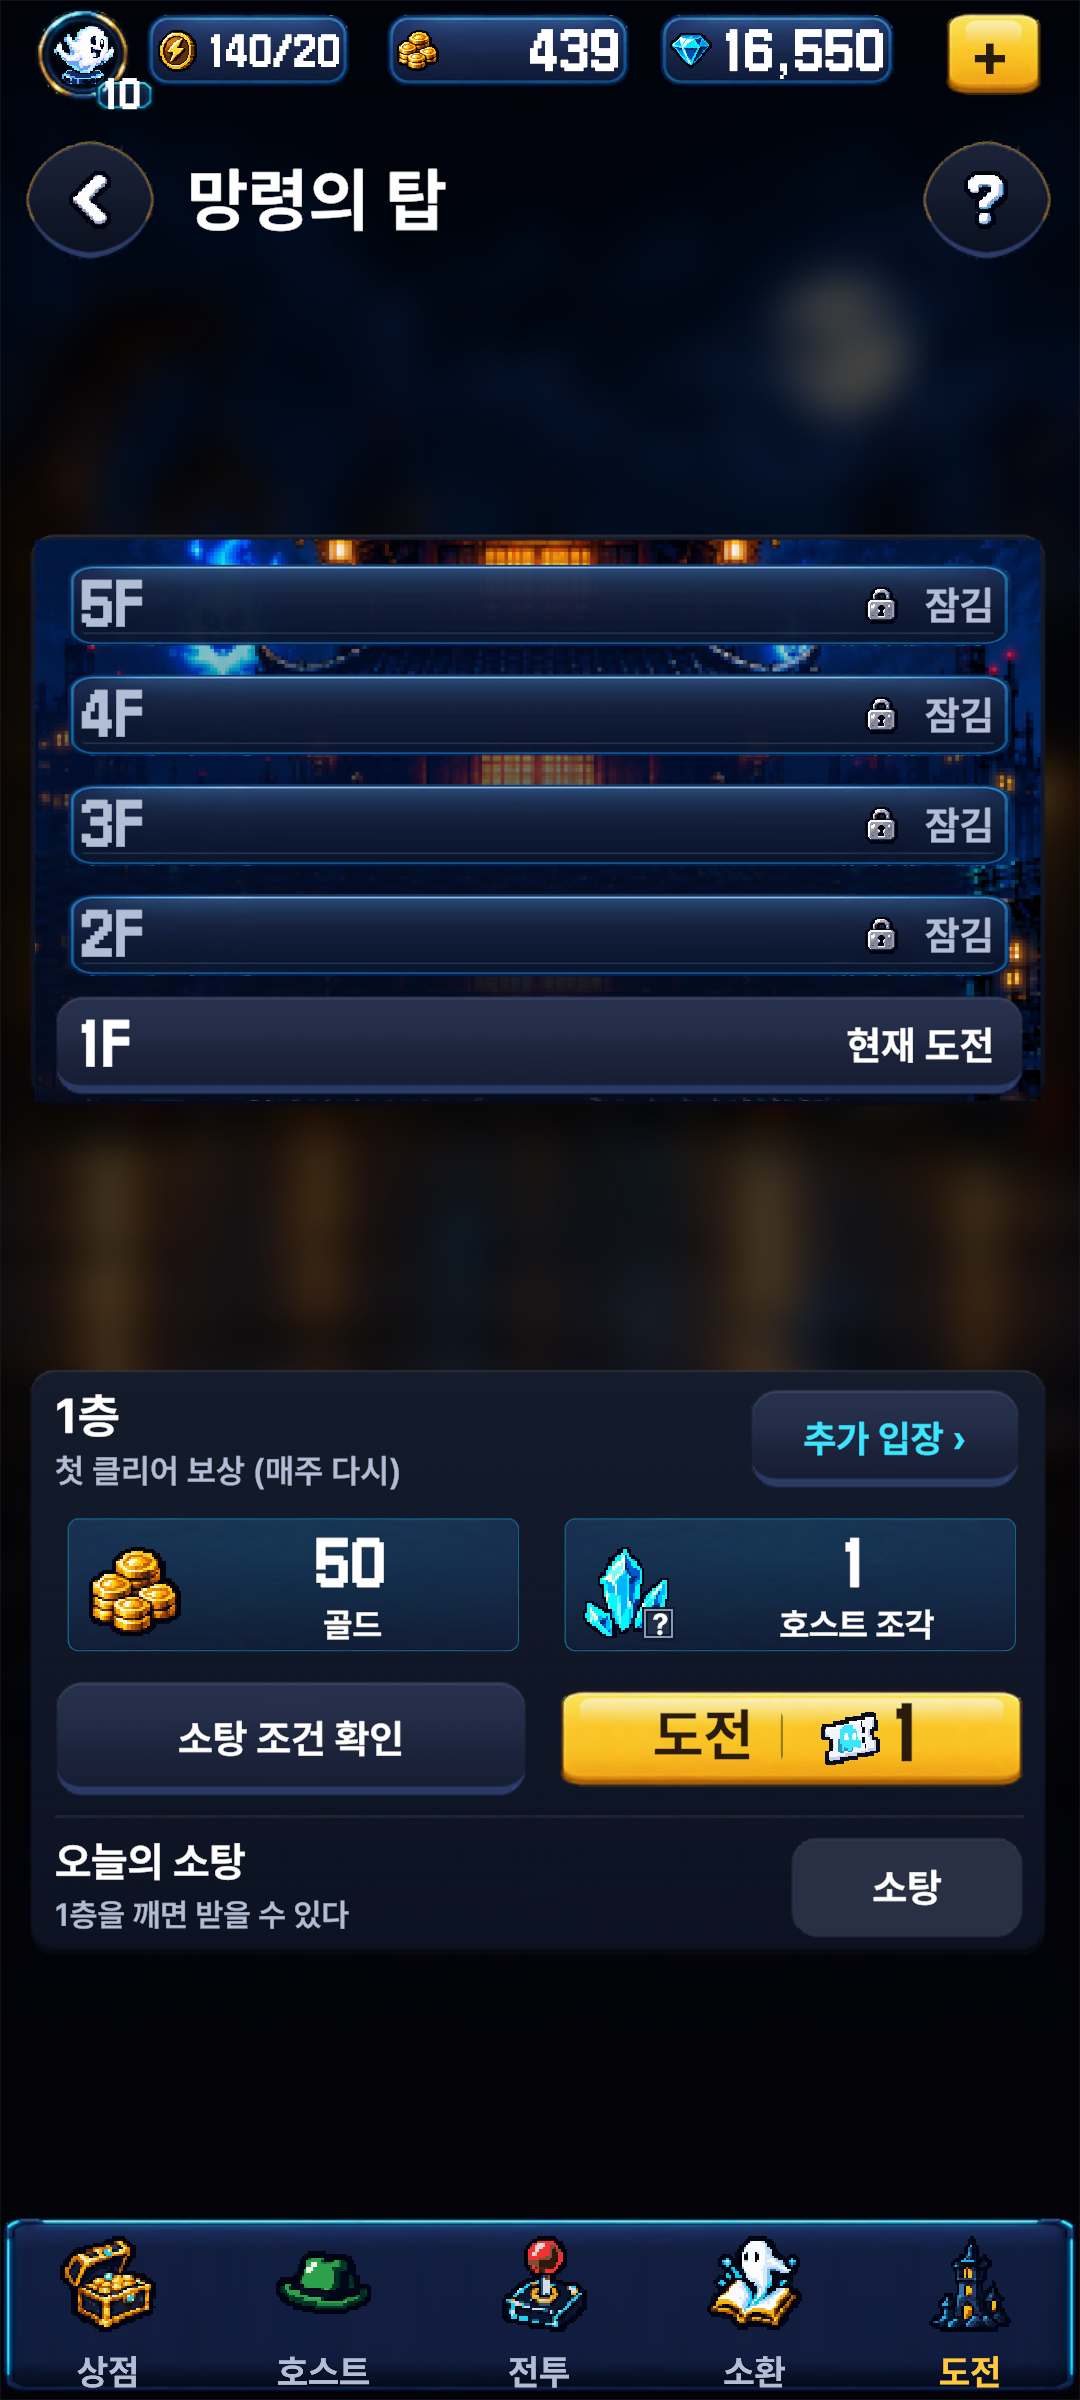
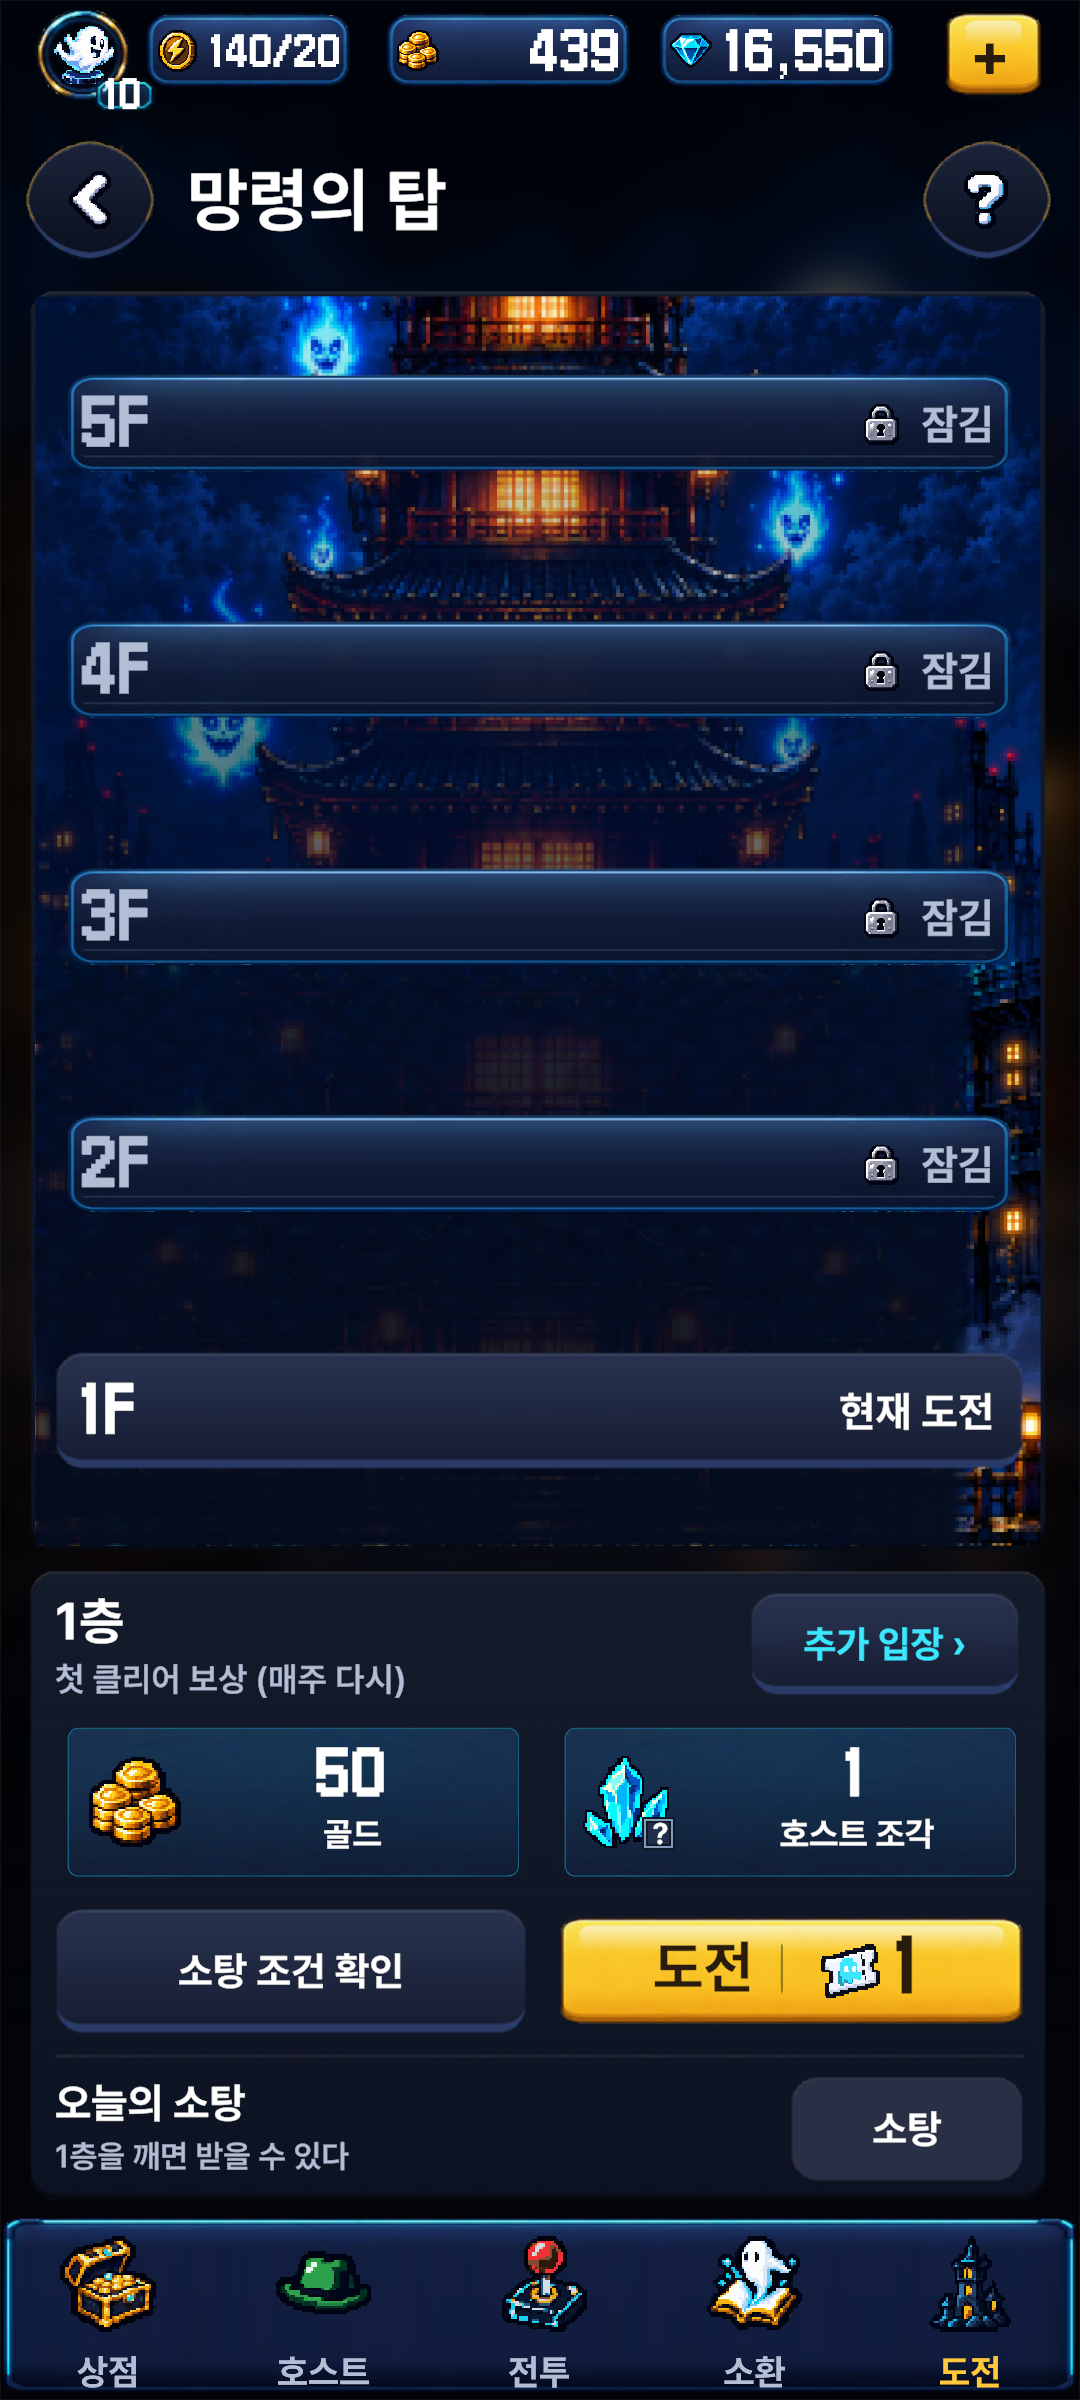
RE:BORN 망령의 탑 — 층 간격 넓혀 빈 공간 채움 · 긴 화면은 남는 세로를 층 간격에
- 탑 판을 16:9 보기 칸 거의 끝까지 늘리고 층 줄 간격 146 · 높이 118 로 키움
- RbFitBands 층 줄 모드(GrowRows): 20:9 처럼 세로가 남으면 탑 판이 길어지고 다섯 층이 고르게 벌어짐
- 층 줄은 앞머리 뒤가 숫자인 것만(ChlFloorTitle · ChlFloorDesc 가 층 줄로 잘못 잡혀 「1층」 제목이 판 밖에 남던 것)

diff --git a/Assets/Scripts/Editor/ReBorn/RbChallengeBuilder.cs b/Assets/Scripts/Editor/ReBorn/RbChallengeBuilder.cs
@@ -100,36 +100,37 @@ namespace Game.Editor.ReBorn
         private static void BuildTower(RectTransform page)
         {
             // 시안 tower(1080 기준) — 탑 그림 판 위에 다섯 층(이번 5층 묶음) · 아래 판에 보상 · 버튼 · 오늘의 소탕.
-            // 16:9 한 화면(아래 탭 위 ≈ 1880)에 다 들게 — PD 2026-10-26 「층마다 벌려 놓지 말고 · 스크롤 될 필요 없다」.
-            // 층 줄은 시안처럼 거의 붙여(높이 100 · 사이 10)
-            var body = Group(page, "ChlTower", "ui.tower.title", "망령의 탑", 1620 - Top, true);
-            // 해상도 맞춤 — 4:3 은 통째로 키우고, 20:9 는 남는 세로를 탑 판 | 아래 판 사이에 나눈다(경계 = 두 판 사이)
-            body.gameObject.AddComponent<Game.Module.Common.UI.RbFitBands>().Setup((1620 - Top) * S, new[] { (1013 - Top) * S });
-            var ladder = PlaceIn(Node(body, "ChlLadder"), Top, 29, 430, 1047, 1004);
+            // 16:9 보기 칸(머리 줄 밑 ~ 아래 탭 위)을 거의 다 채운다 — PD 2026-10-26 「층 표기 간격을 넓혀서라도 채워 보자 · 빈 공간이 너무 많다」.
+            // 더 긴 화면(20:9)은 RbFitBands 가 남는 세로를 탑 판 안 층 간격에 더 준다
+            var body = Group(page, "ChlTower", "ui.tower.title", "망령의 탑", 1846 - Top, true);
+            var fit = body.gameObject.AddComponent<Game.Module.Common.UI.RbFitBands>();
+            fit.Setup((1846 - Top) * S, new[] { (1197 - Top) * S });
+            fit.GrowRows("ChlLadder", "ChlFloor");
+            var ladder = PlaceIn(Node(body, "ChlLadder"), Top, 29, 430, 1047, 1188);
             Img(ladder, "Components/rb_panel_base");
             ArtCard(ladder, "ChlLadder", "Art/rb_art_bg_tower_column", AspectOf("Art/rb_art_bg_tower_column"));
             for (int i = 0; i < 5; i++)
             {
-                float y0 = 452 + i * 110f, y1 = y0 + 100;
+                float y0 = 454 + i * 146f, y1 = y0 + 118;
                 var row = PlaceIn(Node(body, $"ChlFloor{i}"), Top, 55, y0, 1024, y1);
                 Img(row, "Components/rb_list_row");
-                Text(Local(Node(row, $"ChlFloor{i}No"), 55, y0, 1024, y1, 82, y0 + 20, 300, y0 + 80), null, "5F", 52, White, TA.Left, number: true);
-                Img(Local(Node(row, $"ChlFloor{i}Lock"), 55, y0, 1024, y1, 862, y0 + 30, 902, y0 + 70), "Icons/rb_icon_sys_lock_48");
-                Text(Local(Node(row, $"ChlFloor{i}State"), 55, y0, 1024, y1, 600, y0 + 24, 994, y0 + 76), null, "잠김", 40, Dim, TA.Right, heavy: true);
+                Text(Local(Node(row, $"ChlFloor{i}No"), 55, y0, 1024, y1, 82, y0 + 26, 300, y0 + 92), null, "5F", 56, White, TA.Left, number: true);
+                Img(Local(Node(row, $"ChlFloor{i}Lock"), 55, y0, 1024, y1, 860, y0 + 38, 904, y0 + 82), "Icons/rb_icon_sys_lock_48");
+                Text(Local(Node(row, $"ChlFloor{i}State"), 55, y0, 1024, y1, 600, y0 + 32, 994, y0 + 88), null, "잠김", 42, Dim, TA.Right, heavy: true);
             }
-            Img(PlaceIn(Node(body, "ChlTowerPanel"), Top, 29, 1022, 1047, 1610), "Components/rb_panel_base");
-            Text(PlaceIn(Node(body, "ChlFloorTitle"), Top, 55, 1040, 730, 1098), null, "2층", 54, White, TA.Left, heavy: true);
-            Text(PlaceIn(Node(body, "ChlFloorDesc"), Top, 55, 1104, 740, 1144), "ui.tower.first_clear", "첫 클리어 보상 (매주 다시)", 34, Dim, TA.Left);
-            var buy = Button2(body, "ChlTowerBuy", "ui.rb.chl.buy", "추가 입장 ›", 750, 1042, 1020, 1142, false, 38);
+            Img(PlaceIn(Node(body, "ChlTowerPanel"), Top, 29, 1206, 1047, 1838), "Components/rb_panel_base");
+            Text(PlaceIn(Node(body, "ChlFloorTitle"), Top, 55, 1226, 730, 1288), null, "2층", 56, White, TA.Left, heavy: true);
+            Text(PlaceIn(Node(body, "ChlFloorDesc"), Top, 55, 1294, 740, 1336), "ui.tower.first_clear", "첫 클리어 보상 (매주 다시)", 34, Dim, TA.Left);
+            var buy = Button2(body, "ChlTowerBuy", "ui.rb.chl.buy", "추가 입장 ›", 750, 1228, 1020, 1332, false, 38);
             buy.GetComponentInChildren<TMPro.TextMeshProUGUI>().color = Cyan;   // 시안: 청록 글자
-            Reward(body, "ChlReward", 1164, 1314);
-            Button2(body, "ChlTowerFit", "ui.rb.chl.sweep_rule", "소탕 조건 확인", 55, 1334, 527, 1450, false, 40);
-            StartButton(body, "ChlTowerStart", "도전", 552, 1334, 1024, 1450);
+            Reward(body, "ChlReward", 1356, 1522);
+            Button2(body, "ChlTowerFit", "ui.rb.chl.sweep_rule", "소탕 조건 확인", 55, 1544, 527, 1670, false, 40);
+            StartButton(body, "ChlTowerStart", "도전", 552, 1544, 1024, 1670);
             // 버튼 줄과 오늘의 소탕 사이 가는 줄(시안 #1D2331 · 두께 2 — 코덱스 납품 rb_divider_line)
-            if (KitSprite("Components/rb_divider_line") != null) Img(PlaceIn(Node(body, "ChlSweepLine"), Top, 55, 1466, 1024, 1474), "Components/rb_divider_line").preserveAspect = false;
-            Text(PlaceIn(Node(body, "ChlSweepTitle"), Top, 55, 1490, 760, 1540), "ui.tower.sweep", "오늘의 소탕", 44, White, TA.Left, heavy: true);
-            Text(PlaceIn(Node(body, "ChlSweepInfo"), Top, 55, 1546, 770, 1590), null, "하루 1번 · 입장 횟수를 쓰지 않는다", 32, Dim, TA.Left);
-            Button2(body, "ChlTowerSweep", null, "소탕", 790, 1490, 1024, 1592, false, 40);
+            if (KitSprite("Components/rb_divider_line") != null) Img(PlaceIn(Node(body, "ChlSweepLine"), Top, 55, 1688, 1024, 1696), "Components/rb_divider_line").preserveAspect = false;
+            Text(PlaceIn(Node(body, "ChlSweepTitle"), Top, 55, 1714, 760, 1764), "ui.tower.sweep", "오늘의 소탕", 44, White, TA.Left, heavy: true);
+            Text(PlaceIn(Node(body, "ChlSweepInfo"), Top, 55, 1770, 770, 1814), null, "하루 1번 · 입장 횟수를 쓰지 않는다", 32, Dim, TA.Left);
+            Button2(body, "ChlTowerSweep", null, "소탕", 790, 1712, 1024, 1818, false, 40);
             buy.transform.SetAsLastSibling();
         }
 
@@ -139,7 +140,7 @@ namespace Game.Editor.ReBorn
             // 시안 tower: 얇은 청록 테 칸 둘 — 아이콘 왼쪽 · 숫자와 이름 가운데 · 조각은 「?」
             var g = PlaceIn(Node(body, p + "GoldTile"), Top, 55, y0, 527, y1);
             Img(g, CellTeal).pixelsPerUnitMultiplier = CellPpu;
-            Img(Local(Node(g, p + "GoldIcon"), 55, y0, 527, y1, 85, y0 + 32, 185, y0 + 132), "Icons/rb_icon_currency_gold_96");
+            Img(Local(Node(g, p + "GoldIcon"), 55, y0, 527, y1, 85, y0 + 33, 185, y0 + 133), "Icons/rb_icon_currency_gold_96");
             Text(Local(Node(g, p + "Gold"), 55, y0, 527, y1, 200, y0 + 22, 505, y0 + 86), null, "500", 54, White, TA.Center, number: true);
             Text(Local(Node(g, p + "GoldLabel"), 55, y0, 527, y1, 200, y0 + 92, 505, y0 + 136), "ui.rb.result.gold", "골드", 34, White, TA.Center, heavy: true);
             var s = PlaceIn(Node(body, p + "ShardTile"), Top, 552, y0, 1024, y1);

diff --git a/Assets/Scripts/Module/Common/UI/RbFitBands.cs b/Assets/Scripts/Module/Common/UI/RbFitBands.cs
@@ -22,6 +22,9 @@ namespace Game.Module.Common.UI
         [SerializeField] private float _designWidth = 720f;
         [SerializeField] private float _designHeight;
         [SerializeField] private float[] _breaks = System.Array.Empty<float>();
+        // 층 줄 모드 — 남는 세로를 띠 사이가 아니라 한 판(_growNode) 안 줄(_rowPrefix…) 간격에 준다(탑 층 사다리)
+        [SerializeField] private string _growNode, _rowPrefix;
+        private Vector2 _growHomeSize;
 
         private RectTransform _rt;
         private Vector2[] _home;
@@ -32,6 +35,13 @@ namespace Game.Module.Common.UI
         {
             _designHeight = designHeight;
             _breaks = breaks ?? System.Array.Empty<float>();
+        }
+
+        /// <summary>남는 세로를 판 하나(bg) 안 줄들(이름 앞머리 rowPrefix) 간격에 준다 — 판은 그만큼 길어지고, 그 아래는 통째로 내려간다.</summary>
+        public void GrowRows(string bg, string rowPrefix)
+        {
+            _growNode = bg;
+            _rowPrefix = rowPrefix;
         }
 
         private void Awake() => _rt = (RectTransform)transform;
@@ -73,6 +83,7 @@ namespace Game.Module.Common.UI
             // 다 들어가면 스크롤을 끈다(PD 「스크롤 될 필요 없다」) — 켜 두면 스크롤이 내용 자리를 위로 되돌린다
             if (scroll != null) scroll.enabled = _designHeight * k > view.y + 1f;
             _rt.anchoredPosition = new Vector2(0f, -gap * k);
+            if (!string.IsNullOrEmpty(_growNode)) { GrowRowsApply(spare / k); return; }
             for (int i = 0; i < _kids.Length; i++)
             {
                 if (_kids[i] == null) continue;
@@ -83,5 +94,41 @@ namespace Game.Module.Common.UI
                 _kids[i].anchoredPosition = _home[i] + new Vector2(0f, -gap * band);
             }
         }
+
+        // 남는 세로(내용 단위) 전부를 판 안 줄 간격에 — 줄 n 개는 길어진 판 안에 고르게, 판 아래 묶음은 통째로 아래로
+        private void GrowRowsApply(float extra)
+        {
+            _rt.anchoredPosition = Vector2.zero;
+            RectTransform bg = null;
+            int bgIndex = -1;
+            var rows = new System.Collections.Generic.List<int>();
+            for (int i = 0; i < _kids.Length; i++)
+            {
+                if (_kids[i] == null) continue;
+                if (_kids[i].name == _growNode) { bg = _kids[i]; bgIndex = i; }
+                else if (IsRow(_kids[i].name)) rows.Add(i);
+            }
+            if (bg == null) return;
+            if (_growHomeSize == Vector2.zero) _growHomeSize = bg.sizeDelta;
+            float bgBottom = -(_home[bgIndex].y - _growHomeSize.y * bg.pivot.y);   // 판 아랫변 깊이
+            rows.Sort((a, b) => _home[b].y.CompareTo(_home[a].y));               // 위 → 아래
+            for (int i = 0; i < _kids.Length; i++)
+            {
+                if (_kids[i] == null || i == bgIndex || rows.Contains(i)) continue;
+                float top = -(_home[i].y + _kids[i].rect.height * (1f - _kids[i].pivot.y));
+                _kids[i].anchoredPosition = _home[i] + new Vector2(0f, top >= bgBottom - 0.5f ? -extra : 0f);
+            }
+            // 판 — 위 변은 그대로, 아래로 extra 만큼 길어진다
+            bg.sizeDelta = _growHomeSize + new Vector2(0f, extra);
+            bg.anchoredPosition = _home[bgIndex] + new Vector2(0f, -extra * (1f - bg.pivot.y));
+            // 줄 — 줄 사이 n-1 칸 + 위 · 아래 반 칸씩에 고르게
+            int n = rows.Count;
+            for (int r = 0; r < n; r++)
+                _kids[rows[r]].anchoredPosition = _home[rows[r]] + new Vector2(0f, -extra * (r + 0.5f) / n);
+        }
+
+        // 앞머리 바로 뒤가 숫자인 것만 줄이다 — ChlFloor0 은 줄, ChlFloorTitle · ChlFloorDesc 는 아래 판 글자
+        private bool IsRow(string name) =>
+            name.Length > _rowPrefix.Length && name.StartsWith(_rowPrefix) && char.IsDigit(name[_rowPrefix.Length]);
     }
 }
